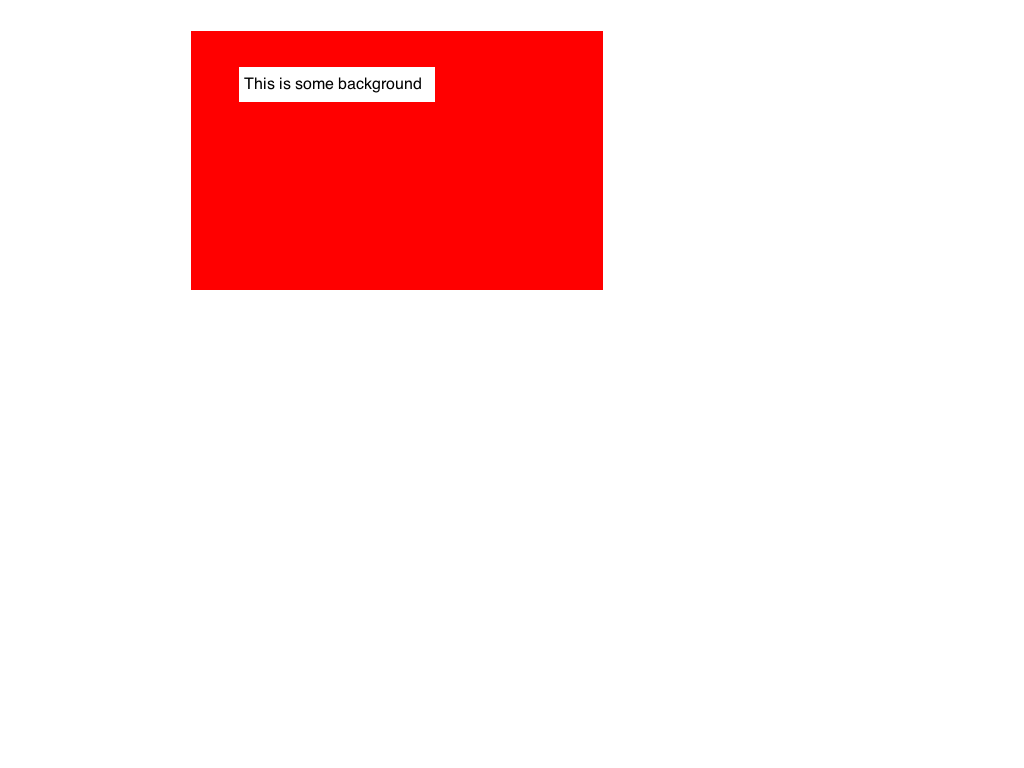
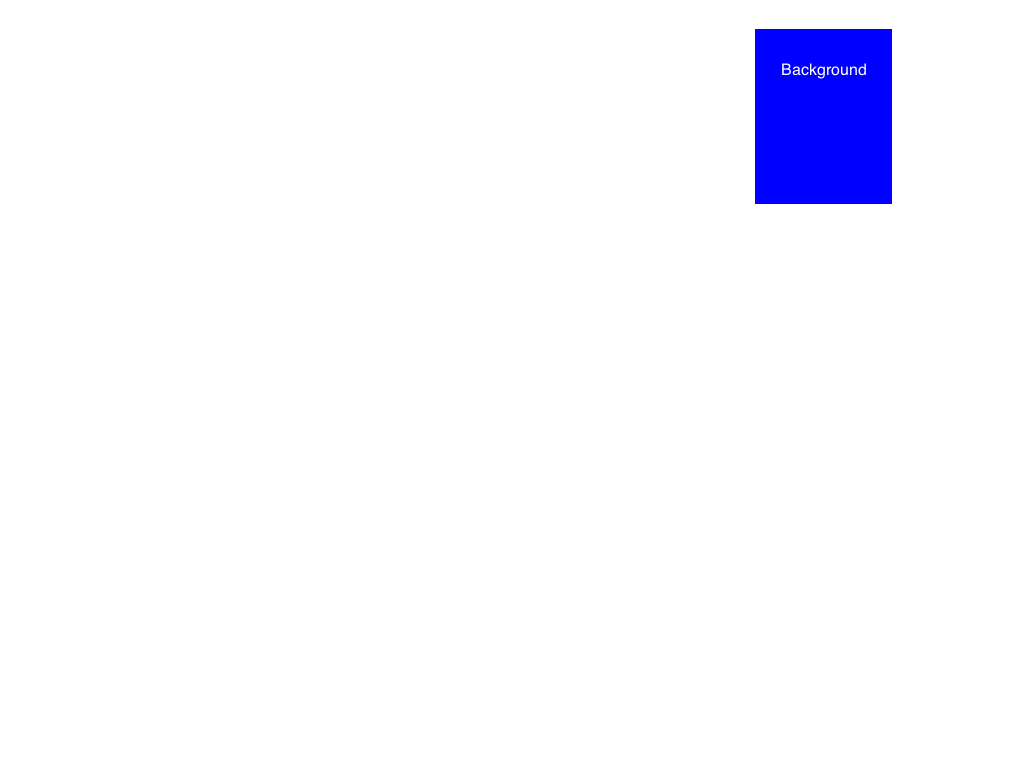
adding area drawing

Changed region(s): [[0.1875, 0.0312, 0.5938, 0.375], [0.7188, 0.0312, 0.875, 0.2812]]

diff --git a/area.rb b/area.rb
@@ -1,11 +1,19 @@
+require 'gosu'
 
 class Area
   
   attr_accessor :name, :game_objects
   
-  def initialize(name)
+  def initialize(game, name)
     @name = name
     @game_objects = []
+    @background_image = Gosu::Image.new(game.window, "./data/areas/#{name}/background.png", false)
+    @foreground_image = Gosu::Image.new(game.window, "./data/areas/#{name}/foreground.png", false)
+  end
+  
+  def draw
+    @background_image.draw(0, 0, ZOrder::Background)
+    @foreground_image.draw(0, 0, ZOrder::Foreground)
   end
   
 end

diff --git a/main.rb b/main.rb
@@ -38,6 +38,7 @@ class GameWindow < Gosu::Window
       @dialog_font.draw(self.text_input.text, 500, 100, ZOrder::DialogEntities, 1.0, 1.0, 0xffffffff)
     end
     
+    @game.current_area.draw
     @game.current_area.game_objects.each do |obj_name|
       @game.game_objects[obj_name].draw
     end

diff --git a/game_object.rb b/game_object.rb
@@ -9,7 +9,8 @@ class GameObject
   def initialize(game_obj, name, dirname=nil)
     @game = game_obj
     @name = name
-    @x = @y = @z = 0.0
+    @x = @y = 0.0
+    @z = ZOrder::Objects
     @dx = @dy = @new_x = @new_y = nil
     @speed = 5.0
     @showing = @moving = false

diff --git a/game.rb b/game.rb
@@ -32,7 +32,7 @@ class Game
   end
   
   def load_areas
-    {"dev_room" => Area.new("dev_room")}
+    {"dev_room" => Area.new(self, "dev_room")}
   end
   
   def current_area
